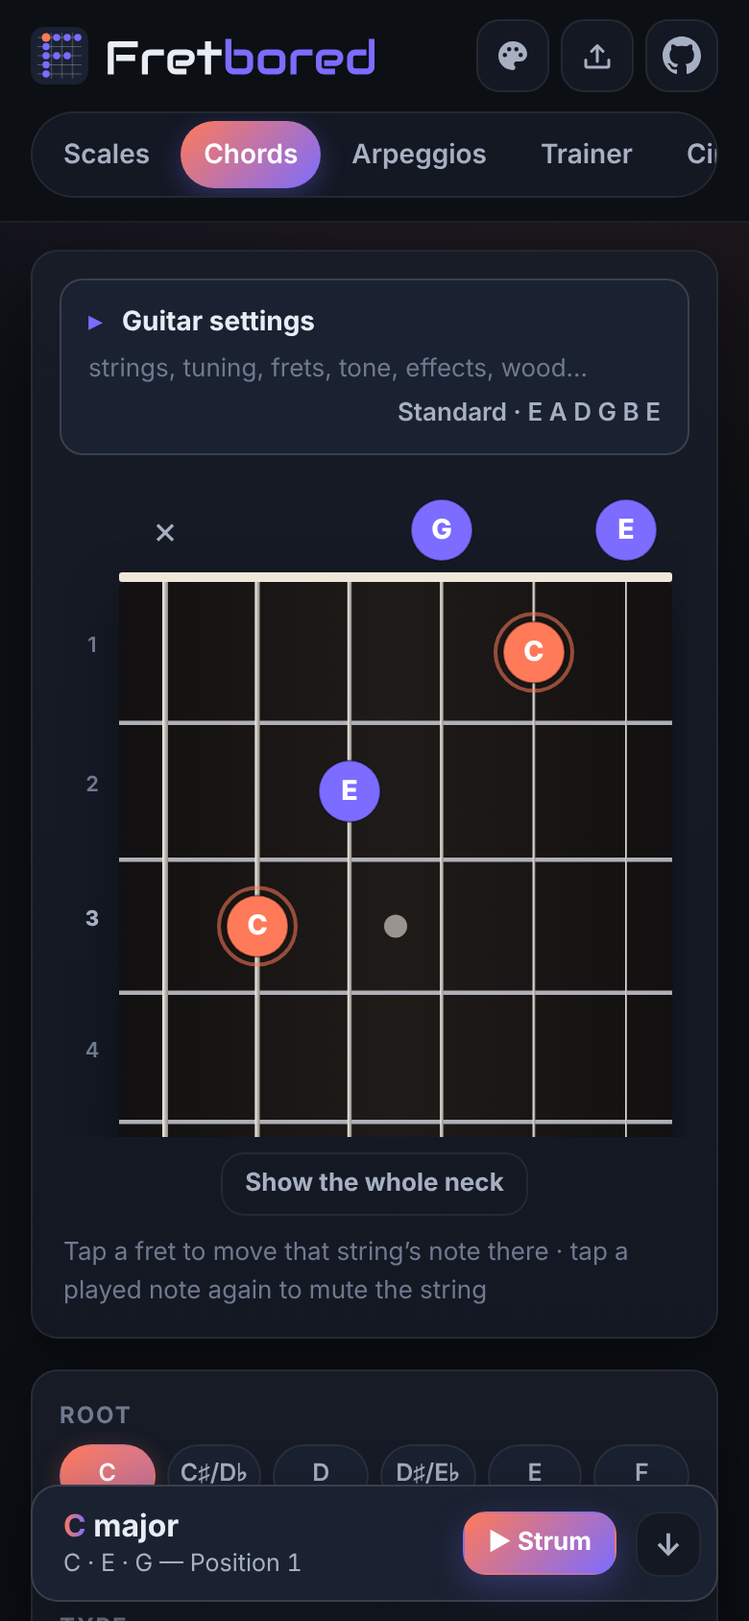
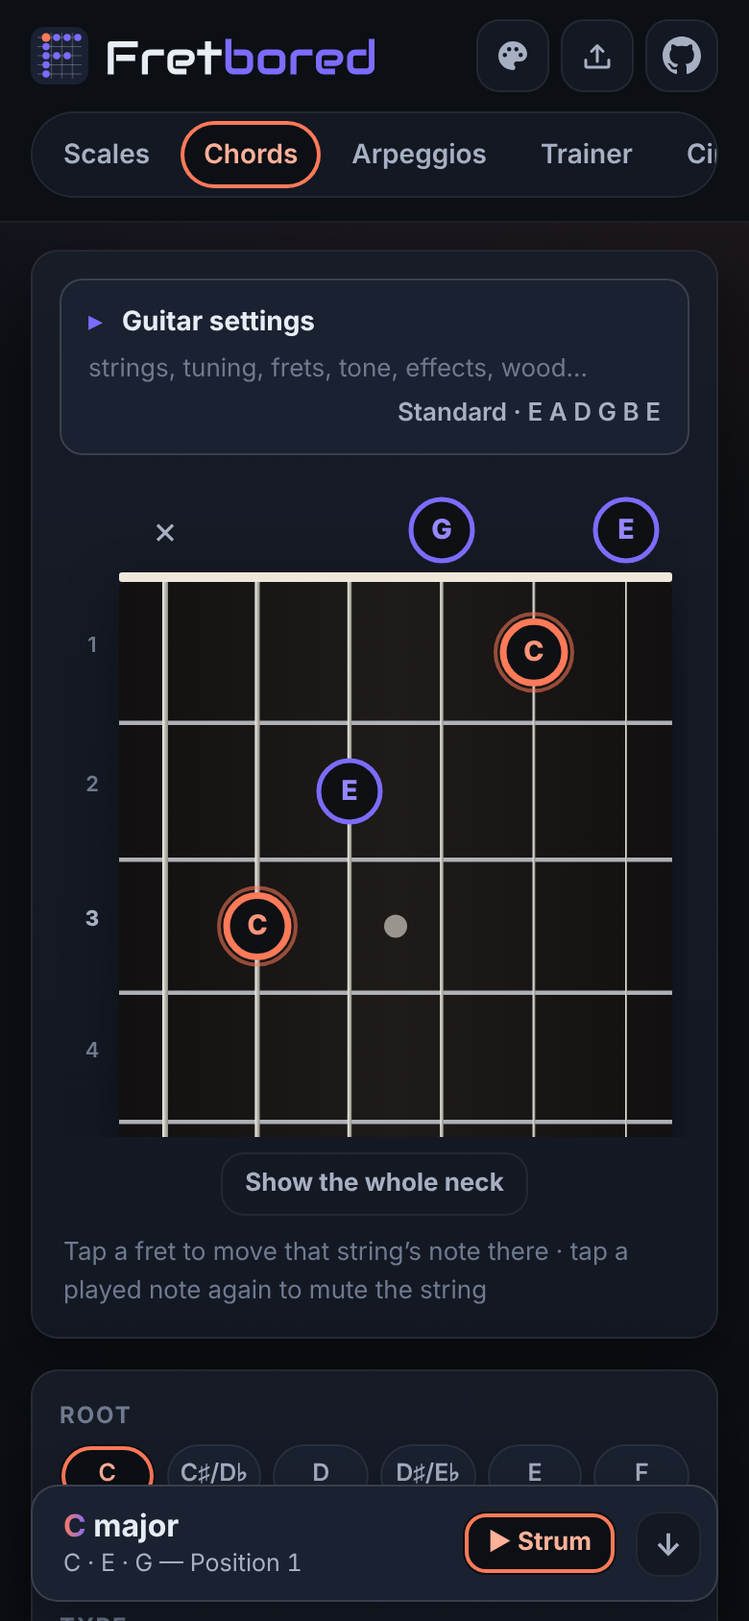
Keep Classic, Ring, Neon and Target styles; make Ring the default
The owner picked these four from the eight trial styles and wants the dark ring
dots as the standard look. Glass, Flat, Pixel, Sticker and Pearl are removed,
along with the code only they needed (square dots, the pearl sheen). A saved
removed style falls back to Ring, and a one-time styleVersion migration moves
everyone to Ring — otherwise anyone who opened the app since styles shipped
would stay on their saved 'classic'. README screenshots regenerated for the
new default.

Claude-Session: https://claude.ai/code/session_01PCZFbkUMncd3SmXqEBR9j8

diff --git a/css/style.css b/css/style.css
@@ -717,19 +717,17 @@ input:disabled { opacity: 0.45; cursor: not-allowed; }
 }
 .fretboard .note .halo { display: none; fill: none; stroke: var(--dot); stroke-width: 2; opacity: 0.55; }
 .fretboard .note.root .halo { display: inline; }
-.fretboard .note .sheen { pointer-events: none; }
 .fretboard .note.faint .dot { opacity: 0.28; stroke: none; }
 .fretboard .note.faint text { fill: #fff; opacity: 0.6; }
 .fretboard.wood-maple .note.faint .dot { opacity: 0.4; }
 .fretboard.wood-maple .note.faint text { fill: #1a1410; }
 .fretboard .note.enter { animation: dotIn 0.22s ease-out; transform-box: fill-box; }
-.fretboard .note.enter :is(.dot, .sheen) { animation: dotScale 0.22s ease-out; transform-origin: center; transform-box: fill-box; }
+.fretboard .note.enter .dot { animation: dotScale 0.22s ease-out; transform-origin: center; transform-box: fill-box; }
 @keyframes dotIn { from { opacity: 0; } to { opacity: 1; } }
 @keyframes dotScale { from { transform: scale(0.4); } to { transform: scale(1); } }
 .fretboard .note.playing-a .dot, .fretboard .note.playing-b .dot { transform-box: fill-box; transform-origin: center; stroke: #fff; stroke-width: 3; }
-.fretboard .note.playing-a :is(.dot, .sheen) { animation: ping 0.32s ease-out; }
-.fretboard .note.playing-b :is(.dot, .sheen) { animation: ping2 0.32s ease-out; }
-.fretboard .note:is(.playing-a, .playing-b) .sheen { transform-box: fill-box; transform-origin: center; }
+.fretboard .note.playing-a .dot { animation: ping 0.32s ease-out; }
+.fretboard .note.playing-b .dot { animation: ping2 0.32s ease-out; }
 @keyframes ping2 { 0% { transform: scale(1); } 40% { transform: scale(1.35); } 100% { transform: scale(1); } }
 @keyframes ping { 0% { transform: scale(1); } 40% { transform: scale(1.35); } 100% { transform: scale(1); } }
 
@@ -1132,8 +1130,7 @@ dialog::backdrop { background: rgba(5, 8, 14, 0.6); backdrop-filter: blur(3px); 
 /* ================================================================ App styles
  * The look of note dots, buttons and tabs, chosen in the palette menu next to the colour theme
  * (FS.STYLES in app.js). Classic (the original look) is the rules above; each style below only
- * overrides them and takes every colour from the theme. Pixel's square dots and Target's dot
- * sizes are drawn by fretboard.js. */
+ * overrides them and takes every colour from the theme. Target's dot sizes are set in fretboard.js. */
 
 :root { --ring-fill: #0e1014; } /* dark dot fill for the ring styles, on every theme and wood */
 
@@ -1184,73 +1181,6 @@ dialog::backdrop { background: rgba(5, 8, 14, 0.6); backdrop-filter: blur(3px); 
 :root[data-style='halo'] .switch input:checked + .slider { background: var(--accent); box-shadow: inset 0 0 0 2px var(--bg); }
 :root[data-style='halo'] .beat-dot.on span { box-shadow: 0 0 0 2px var(--bg), 0 0 0 4px var(--accent); }
 :root[data-style='halo'] .beat-dot.on:is([data-level='2'], [data-level='1']) span { box-shadow: 0 0 0 2px var(--bg), 0 0 0 4px var(--accent-2); }
-
-/* ---- Glass: see-through tinted dots and buttons */
-:root[data-style='glass'] :is(.fretboard .note .dot, .cb-dot) { fill: color-mix(in srgb, var(--dot) 32%, var(--ring-fill)); fill-opacity: 0.85; stroke: var(--dot); stroke-width: 1.8; }
-:root[data-style='glass'] .fretboard .note text { fill: color-mix(in srgb, var(--dot) 40%, white); }
-:root[data-style='glass'] .fretboard.wood-maple .note text { fill: color-mix(in srgb, var(--dot) 60%, black); }
-:root[data-style='glass'] .fretboard.wood-maple .note .dot { fill: color-mix(in srgb, var(--dot) 30%, white); }
-:root[data-style='glass'] .fretboard .note.faint .dot { opacity: 0.5; stroke-width: 1; }
-:root[data-style='glass'] :is(.tabs button[aria-selected='true'], .pill.active, .btn.primary) {
-  background: color-mix(in srgb, var(--accent) 20%, transparent); color: var(--accent-text); border-color: transparent;
-  box-shadow: inset 0 0 0 1px color-mix(in srgb, var(--accent) 65%, transparent), inset 0 1px 0 rgba(255, 255, 255, 0.12);
-}
-:root[data-style='glass'] .seg button.active { background: color-mix(in srgb, var(--accent-2) 16%, transparent); box-shadow: inset 0 0 0 1px color-mix(in srgb, var(--accent-2) 55%, transparent); }
-:root[data-style='glass'] .switch input:checked + .slider { background: color-mix(in srgb, var(--accent) 30%, transparent); box-shadow: inset 0 0 0 1px var(--accent); }
-:root[data-style='glass'] .beat-dot.on span { background: color-mix(in srgb, var(--accent) 35%, transparent); color: var(--text); border-color: var(--accent); box-shadow: none; }
-:root[data-style='glass'] .beat-dot.on:is([data-level='2'], [data-level='1']) span { background: color-mix(in srgb, var(--accent-2) 30%, transparent); border-color: var(--accent-2); }
-
-/* ---- Flat: solid colours, no gradients, glows or shadows, tighter corners, underlined tabs */
-:root[data-style='flat'] { --radius: 8px; --radius-sm: 6px; --shadow: none; }
-:root[data-style='flat'] .fretboard .note .dot { stroke: none; }
-:root[data-style='flat'] .fretboard .note.root .halo { display: none; }
-:root[data-style='flat'] .fretboard .board { filter: none; }
-:root[data-style='flat'] .card { background: var(--surface); }
-:root[data-style='flat'] :is(.pill.active, .btn.primary, .switch input:checked + .slider, .progress-bar, .tr-goal-bar, .sweep-ball) { background: var(--accent); box-shadow: none; }
-:root[data-style='flat'] :is(.btn, .pill, .seg, .icon-btn, select, input[type='text'], input[type='number']) { border-radius: 6px; }
-:root[data-style='flat'] .seg button { border-radius: 4px; }
-:root[data-style='flat'] .tabs { background: transparent; border: 0; border-radius: 0; padding: 0; gap: 0; }
-:root[data-style='flat'] .tabs button { border-radius: 0; box-shadow: inset 0 -2px 0 var(--border); }
-:root[data-style='flat'] .tabs button[aria-selected='true'] { background: transparent; color: var(--accent-text); box-shadow: inset 0 -3px 0 var(--accent); }
-:root[data-style='flat'] .beat-dot.on span { box-shadow: none; }
-
-/* ---- Pixel: square notes, hard edges and hard offset shadows */
-:root[data-style='pixel'] { --radius: 4px; --radius-sm: 3px; }
-:root[data-style='pixel'] :is(.fretboard .note .dot, .cb-dot) { stroke: var(--ring-fill); stroke-width: 2; }
-:root[data-style='pixel'] .fretboard .note text { font-family: ui-monospace, SFMono-Regular, Menlo, Consolas, monospace; }
-:root[data-style='pixel'] .fretboard .note.root .halo { opacity: 0.85; }
-:root[data-style='pixel'] :is(.btn, .pill, .seg, .seg button, .tabs, .tabs button, .icon-btn, .chip, .chord-cell, .tr-answer, select, input[type='text'], input[type='number'], .beat-dot span, .switch .slider, .switch .slider::after) { border-radius: 2px; }
-:root[data-style='pixel'] :is(.tabs button[aria-selected='true'], .pill.active, .btn.primary) {
-  background: var(--accent); color: var(--on-accent); border-color: transparent;
-  box-shadow: 3px 3px 0 color-mix(in srgb, var(--accent) 40%, black);
-}
-:root[data-style='pixel'] .switch input:checked + .slider { background: var(--accent); }
-:root[data-style='pixel'] .beat-dot.on span { box-shadow: 3px 3px 0 color-mix(in srgb, var(--accent) 40%, black); }
-:root[data-style='pixel'] .beat-dot.on:is([data-level='2'], [data-level='1']) span { box-shadow: 3px 3px 0 color-mix(in srgb, var(--accent-2) 40%, black); }
-
-/* ---- Sticker: die-cut white outlines with a drop shadow */
-:root[data-style='sticker'] :is(.fretboard .note .dot, .cb-dot) { stroke: #fff; stroke-width: 2.5; filter: drop-shadow(1.5px 2px 0 rgba(0, 0, 0, 0.55)); }
-:root[data-style='sticker'] :is(.fretboard .note.root .dot, .cb-dot.root) { stroke-width: 3.5; }
-:root[data-style='sticker'] .fretboard .note.root .halo { display: none; }
-:root[data-style='sticker'] .fretboard .note.faint .dot { filter: none; stroke-width: 1.5; }
-:root[data-style='sticker'] :is(.tabs button[aria-selected='true'], .pill.active, .btn.primary) {
-  background: var(--accent); color: var(--on-accent); border-color: transparent;
-  box-shadow: inset 0 0 0 2px var(--text), 2px 3px 0 rgba(0, 0, 0, 0.5);
-}
-:root[data-style='sticker'] .switch input:checked + .slider { background: var(--accent); box-shadow: inset 0 0 0 2px var(--text); }
-:root[data-style='sticker'] .beat-dot.on span { border-color: var(--text); box-shadow: 2px 3px 0 rgba(0, 0, 0, 0.5); }
-
-/* ---- Pearl: glossy dots like shell inlays; glossy buttons */
-:root[data-style='pearl'] :is(.fretboard .note .dot, .cb-dot) { stroke: color-mix(in srgb, var(--dot) 55%, black); stroke-width: 1; }
-:root[data-style='pearl'] .fretboard .note.root .halo { opacity: 0.7; }
-:root[data-style='pearl'] :is(.tabs button[aria-selected='true'], .pill.active, .btn.primary, .switch input:checked + .slider) {
-  background: linear-gradient(180deg, color-mix(in srgb, var(--accent) 62%, white), var(--accent) 55%, color-mix(in srgb, var(--accent) 80%, black));
-  color: var(--on-accent); border-color: transparent;
-  box-shadow: inset 0 1px 0 rgba(255, 255, 255, 0.55), inset 0 -1px 0 rgba(0, 0, 0, 0.2), 0 2px 6px rgba(0, 0, 0, 0.3);
-}
-:root[data-style='pearl'] .seg button.active { background: linear-gradient(180deg, color-mix(in srgb, var(--surface-3) 70%, white 12%), var(--surface-3)); box-shadow: inset 0 1px 0 rgba(255, 255, 255, 0.18), 0 1px 3px rgba(0, 0, 0, 0.3); }
-:root[data-style='pearl'] .beat-dot.on span { background: radial-gradient(circle at 35% 30%, color-mix(in srgb, var(--accent) 45%, white), var(--accent) 60%); }
-:root[data-style='pearl'] .beat-dot.on:is([data-level='2'], [data-level='1']) span { background: radial-gradient(circle at 35% 30%, color-mix(in srgb, var(--accent-2) 45%, white), var(--accent-2) 60%); }
 
 /* Phones: no glows on the metronome lights (repaints can starve audio — see CLAUDE.md). */
 @media (max-width: 760px) {

diff --git a/tests/smoke.browser.js b/tests/smoke.browser.js
@@ -99,8 +99,9 @@ const check = (label, actual, expected) => {
       check(`${P} theme menu closes`, String(await page.$eval('#theme-menu', (m) => m.hidden)), 'true');
       if (th !== 'dark') await shot(`theme-${th}`);
     }
-    // Note dots take their colours from the app theme (no separate dot-colour picker).
-    const rootFill = () => page.$eval('#panel-scales .fretboard .note.root .dot', (c) => getComputedStyle(c).fill);
+    // Note dots take their colours from the app theme (no separate dot-colour picker); in the default
+    // Ring style that colour is the ring (stroke).
+    const rootFill = () => page.$eval('#panel-scales .fretboard .note.root .dot', (c) => getComputedStyle(c).stroke);
     check(`${P} dark theme root dot colour`, await rootFill(), 'rgb(255, 122, 89)');
     check(`${P} no dot-colour picker`, String(await page.$$eval('.fb-settings .swatch', (s) => s.length)), '0');
     await page.click('#theme-btn');
@@ -114,33 +115,34 @@ const check = (label, actual, expected) => {
     await page.click('#theme-menu [data-id="dark"]');
     await page.waitForTimeout(100);
 
-    // App styles (palette menu, beside the colour themes): Classic is the default; each one applies
-    // and is remembered; Ring draws dark dots with a ring in the theme's colour; Pixel draws squares.
-    check(`${P} default style`, await page.$eval('html', (e) => e.dataset.style), 'classic');
-    for (const st of ['ring', 'neon', 'halo', 'glass', 'flat', 'pixel', 'sticker', 'pearl']) {
+    // App styles (palette menu, beside the colour themes): Ring is the default; each one applies
+    // and is remembered; Ring draws dark dots with a ring in the theme's colour.
+    check(`${P} default style`, await page.$eval('html', (e) => e.dataset.style), 'ring');
+    check(`${P} style menu items`, (await page.$$eval('#theme-menu [data-style]', (b) => b.map((x) => x.dataset.style))).join(' '), 'classic ring neon halo');
+    for (const st of ['classic', 'neon', 'halo']) {
       await page.click('#theme-btn');
       await page.click(`#theme-menu [data-style="${st}"]`);
       await page.waitForTimeout(100);
       check(`${P} style ${st} applied`, await page.$eval('html', (e) => e.dataset.style), st);
       check(`${P} style ${st} checked in menu`, await page.$eval(`#theme-menu [data-style="${st}"]`, (b) => b.getAttribute('aria-checked')), 'true');
       await shot(`style-${st}`);
-      if (st === 'pixel') check(`${P} pixel style draws square dots`, await page.$eval('#panel-scales .fretboard .note.root .dot', (d) => d.tagName), 'rect');
-      if (st === 'pearl') check(`${P} pearl style adds a sheen`, String(await page.$$eval('#panel-scales .fretboard .sheen', (s) => s.length > 0)), 'true');
+      if (st === 'halo') check(`${P} target style rings every note`, String(await page.$$eval('#panel-scales .fretboard .note:not(.faint) .halo', (h) => h.every((x) => getComputedStyle(x).display !== 'none'))), 'true');
     }
     await page.click('#theme-btn');
     await page.click('#theme-menu [data-style="ring"]');
     await page.waitForTimeout(300);
     check(`${P} ring style: root ring in theme colour`, await page.$eval('#panel-scales .fretboard .note.root .dot', (c) => getComputedStyle(c).stroke), 'rgb(255, 122, 89)');
     check(`${P} ring style: dark fill`, await page.$eval('#panel-scales .fretboard .note.root .dot', (c) => getComputedStyle(c).fill), 'rgb(14, 16, 20)');
-    check(`${P} sheen gone after leaving pearl`, String(await page.$$eval('#panel-scales .fretboard .sheen', (s) => s.length)), '0');
     check(`${P} ring style: theme still dark`, await page.$eval('html', (e) => e.dataset.theme), 'dark');
     await page.reload();
     await page.waitForTimeout(300);
     check(`${P} style remembered`, await page.$eval('html', (e) => e.dataset.style), 'ring');
-    check(`${P} classic dots are circles`, await page.$eval('#panel-scales .fretboard .note.root .dot', (d) => d.tagName), 'circle');
-    await page.click('#theme-btn');
-    await page.click('#theme-menu [data-style="classic"]');
-    await page.waitForTimeout(100);
+    // A removed style (e.g. Pixel) saved in storage falls back to Ring.
+    await page.evaluate(() => { FS.settings.style = 'pixel'; FS.save(); });
+    await page.waitForTimeout(300);
+    await page.reload();
+    await page.waitForTimeout(300);
+    check(`${P} removed style falls back to ring`, await page.$eval('html', (e) => e.dataset.style), 'ring');
 
     // Guitar settings: folded by default; opening it on one tab opens it on the others and is remembered.
     const fbOpen = (tab) => page.$eval(`#panel-${tab} .fb-settings`, (d) => d.open);

diff --git a/js/app.js b/js/app.js
@@ -22,17 +22,13 @@
   FS.THEMES = THEMES;
 
   // App styles: the look of note dots, buttons and tabs, independent of the colour theme (the rules
-  // live in style.css as :root[data-style=…]; Classic is the original look and has none).
+  // live in style.css as :root[data-style=…]; Classic is the original look and has none). Ring is
+  // the default; a saved style that was removed (Glass, Flat, Pixel, Sticker, Pearl) falls back to it.
   const STYLES = [
     { id: 'classic', name: 'Classic' },
     { id: 'ring', name: 'Ring' },
     { id: 'neon', name: 'Neon' },
     { id: 'halo', name: 'Target' },
-    { id: 'glass', name: 'Glass' },
-    { id: 'flat', name: 'Flat' },
-    { id: 'pixel', name: 'Pixel' },
-    { id: 'sticker', name: 'Sticker' },
-    { id: 'pearl', name: 'Pearl' },
   ];
   FS.STYLES = STYLES;
 
@@ -44,11 +40,6 @@
         case 'ring': return `<circle cx="${cx}" cy="10" r="7" style="fill:${ring};stroke:${c};stroke-width:2.2"/>`;
         case 'neon': return `<circle cx="${cx}" cy="10" r="7" style="fill:${ring};stroke:${c};stroke-width:1.8;filter:drop-shadow(0 0 2.5px ${c})"/>`;
         case 'halo': return `<circle cx="${cx}" cy="10" r="8.5" style="fill:none;stroke:${c};stroke-width:1.4"/><circle cx="${cx}" cy="10" r="5.5" style="fill:${c}"/>`;
-        case 'glass': return `<circle cx="${cx}" cy="10" r="7" style="fill:color-mix(in srgb, ${c} 32%, #0e1014);stroke:${c};stroke-width:1.6"/>`;
-        case 'flat': return `<circle cx="${cx}" cy="10" r="7.5" style="fill:${c}"/>`;
-        case 'pixel': return `<rect x="${cx - 7}" y="3" width="14" height="14" rx="1.5" style="fill:${c};stroke:#0e1014;stroke-width:1.5"/>`;
-        case 'sticker': return `<circle cx="${cx}" cy="10" r="7" style="fill:${c};stroke:#fff;stroke-width:2;filter:drop-shadow(1px 1.5px 0 rgba(0,0,0,.55))"/>`;
-        case 'pearl': return `<circle cx="${cx}" cy="10" r="7.5" style="fill:${c}"/><circle cx="${cx}" cy="10" r="7.5" fill="url(#pv-sheen)"/>`;
         default: return `<circle cx="${cx}" cy="10" r="7" style="fill:${c};stroke:rgba(0,0,0,.35)"/>`;
       }
     };
@@ -60,7 +51,7 @@
   }
 
   function applyStyle() {
-    const style = STYLES.find((x) => x.id === FS.settings.style) || STYLES[0];
+    const style = STYLES.find((x) => x.id === FS.settings.style) || STYLES.find((x) => x.id === 'ring');
     FS.settings.style = style.id;
     document.documentElement.dataset.style = style.id;
     document.querySelectorAll('#theme-menu [data-style]').forEach((b) => b.setAttribute('aria-checked', String(b.dataset.style === style.id)));
@@ -82,8 +73,6 @@
     const colours = FS.h('div', { class: 'menu-group', role: 'group', 'aria-label': 'Colours' }, FS.h('div', { class: 'menu-head', 'aria-hidden': 'true' }, 'Colours'));
     const styles = FS.h('div', { class: 'menu-group', role: 'group', 'aria-label': 'Style' }, FS.h('div', { class: 'menu-head', 'aria-hidden': 'true' }, 'Style'));
     menu.append(colours, styles);
-    // Shared sheen for the Pearl preview (one copy: SVG ids are page-wide).
-    menu.insertAdjacentHTML('beforeend', '<svg width="0" height="0" style="position:absolute" aria-hidden="true"><defs><radialGradient id="pv-sheen" cx="0.32" cy="0.25" r="0.6"><stop offset="0" stop-color="#fff" stop-opacity="0.55"/><stop offset="0.5" stop-color="#fff" stop-opacity="0.08"/><stop offset="1" stop-color="#fff" stop-opacity="0"/></radialGradient></defs></svg>');
     for (const style of STYLES) {
       styles.append(FS.h('button', {
         role: 'menuitemradio', class: 'theme-item', dataset: { style: style.id },

diff --git a/js/fretboard.js b/js/fretboard.js
@@ -13,17 +13,6 @@
   // label) are set per theme in style.css. Their look (ring, glow, square…) comes from the app
   // style (FS.STYLES in app.js, :root[data-style] rules in style.css).
 
-  // A note dot centred on (cx, cy): a circle, or a rounded square in the Pixel style.
-  FS.dotShape = function (cls, rad, cx, cy, attrs) {
-    const a = attrs ? ` ${attrs}` : '';
-    if (FS.settings.style === 'pixel') {
-      const x = (cx || 0) - rad;
-      const y = (cy || 0) - rad;
-      return `<rect class="${cls}" x="${x}" y="${y}" width="${2 * rad}" height="${2 * rad}" rx="${(rad * 0.22).toFixed(1)}"${a}/>`;
-    }
-    return `<circle class="${cls}"${cx ? ` cx="${cx}" cy="${cy}"` : ''} r="${rad}"${a}/>`;
-  };
-
   const INLAYS = [3, 5, 7, 9, 15, 17, 19, 21];
   const DOUBLE_INLAYS = [12, 24];
   const NS = 'http://www.w3.org/2000/svg';
@@ -161,9 +150,6 @@
         <linearGradient id="${this.uid}string" ${g2}>
           <stop offset="0" stop-color="#f4f1ea"/><stop offset="1" stop-color="#8d8a84"/>
         </linearGradient>
-        <radialGradient id="${this.uid}sheen" cx="0.32" cy="0.25" r="0.6">
-          <stop offset="0" stop-color="#fff" stop-opacity="0.55"/><stop offset="0.5" stop-color="#fff" stop-opacity="0.08"/><stop offset="1" stop-color="#fff" stop-opacity="0"/>
-        </radialGradient>
       </defs>`);
 
       // Board
@@ -238,7 +224,6 @@
       }
 
       // Notes
-      const pearl = FS.settings.style === 'pearl';
       const target = FS.settings.style === 'halo';
       const keys = new Set();
       for (const note of this.model.notes) {
@@ -256,10 +241,9 @@
         parts.push(`<g class="${cls}" data-midi="${midi}" transform="translate(${c.x} ${c.y})" style="--dot:${fill};--dot-text:${ink}">`);
         // The outer ring marks the root; the Target style shows it on every note, tight around a
         // smaller dot so neighbouring strings' rings don't overlap.
-        if (note.kind !== 'faint') parts.push(FS.dotShape('halo', target ? r + 1 : r + 4));
+        if (note.kind !== 'faint') parts.push(`<circle class="halo" r="${target ? r + 1 : r + 4}"/>`);
         const dr = note.kind === 'faint' ? r * 0.82 : target ? r * 0.78 : r;
-        parts.push(FS.dotShape('dot', dr));
-        if (pearl && note.kind !== 'faint') parts.push(FS.dotShape('sheen', dr, 0, 0, `fill="url(#${this.uid}sheen)"`));
+        parts.push(`<circle class="dot" r="${dr}"/>`);
         if (label) parts.push(`<text style="font-size:${fs.toFixed(1)}px">${label}</text>`);
         parts.push('</g>');
       }

diff --git a/js/store.js b/js/store.js
@@ -7,7 +7,8 @@
   const DEFAULTS = {
     tab: 'scales',
     theme: 'dark',
-    style: 'classic', // look of note dots, buttons and tabs (FS.STYLES in app.js)
+    style: 'ring', // look of note dots, buttons and tabs (FS.STYLES in app.js)
+    styleVersion: 0, // bumped to migrate the saved style once
     fretboard: {
       strings: 6,
       tuning: 'std6',
@@ -83,6 +84,11 @@
     saved = null;
   }
   FS.settings = merge(DEFAULTS, saved);
+  // Style v1: Ring became the default; switch everyone over once (Classic stays one tap away).
+  if (FS.settings.styleVersion < 1) {
+    FS.settings.style = 'ring';
+    FS.settings.styleVersion = 1;
+  }
   // Trainer v1: the default practice area is Open–12; reset ranges saved before that existed.
   if (FS.settings.trainer.version < 1) {
     FS.settings.trainer.from = 0;

diff --git a/js/chords.js b/js/chords.js
@@ -326,7 +326,7 @@
           const pc = t.mod12(tuning[s] + f);
           const root = !unknown && pc === st.root;
           const fill = root ? 'var(--dot-root)' : 'var(--dot-note)';
-          p.push(FS.dotShape(`cb-dot${root ? ' root' : ''}`, sw * 0.38, x, topY + row * fh + fh / 2, `style="--dot:${fill}"`));
+          p.push(`<circle class="cb-dot${root ? ' root' : ''}" cx="${x}" cy="${topY + row * fh + fh / 2}" r="${sw * 0.38}" style="--dot:${fill}"/>`);
         }
       });
       p.push('</svg>');

diff --git a/index.html b/index.html
@@ -1,5 +1,5 @@
 <!doctype html>
-<html lang="en" data-theme="dark" data-style="classic">
+<html lang="en" data-theme="dark" data-style="ring">
 <head>
   <meta charset="utf-8">
   <meta name="viewport" content="width=device-width, initial-scale=1, viewport-fit=cover">

diff --git a/CLAUDE.md b/CLAUDE.md
@@ -46,7 +46,7 @@ Script order in `index.html` matters:
 | `js/tunings.js` | `FS.TUNINGS` presets (MIDI notes, lowest string first; `flats` flag for label spelling), string/fret options |
 | `js/store.js` | `FS.settings` (persisted in localStorage key `fretbored:v1` — the only thing the app stores; `FS.exportData()` / `FS.importData(obj)` back it up to / restore it from a JSON file via the header backup menu), `FS.save()`, event bus `FS.on/emit`, tuning helpers, `FS.toast`, DOM helper `FS.h(tag, attrs, ...children)` |
 | `js/audio.js` | Shared AudioContext (`FS.audio.ctx()`), Karplus–Strong pluck synth (`playNote(midi, when, dur, gain, {clean}?)`, `prepare`) through one shared guitar chain (`buildChain(ctx, {tone, reverb, delay}, dest)`, rebuilt when `fretboard.tone/reverb/delay` change, old chain freed after 6 s): `buildTone` = highpass → pre-gain → WaveShaper → peaking EQ → cabinet low-pass → level (`FS.TONES`: Clean, Overdriven — Distortion was removed by the owner as too messy; a saved one is reset to Clean in `store.js`), then delay (`FS.DELAYS`, feedback loop with a low-pass) and reverb (`FS.REVERBS`, ConvolverNode with a generated noise impulse) on parallel sends — nothing built while they're off. Palm mute (`fretboard.palmMute`) = a separate damped Karplus–Strong buffer (`makePluck(midi, muted)`, cached per note+mute, ×1.8 gain). `{clean:true}` (tuner) skips all of it. The smoke test renders offline to check tone levels, palm-mute decay, echo timing and reverb tails; metronome clicks (`loadSamples`, `playSample`, `playBuffer`) — see Audio below |
-| `js/fretboard.js` | `FS.Fretboard` SVG component (shared by Scales/Chords/Arpeggios/Trainer), woods (`FS.WOODS`), horizontal/vertical layout, tap / long-press / right-click handling. Dot colours come from the app theme, their look from the app style (see below; `FS.dotShape`). Model: `{ notes: [{s, f, kind: 'root'|'note'|'faint', label, iv?, color?}], muted, isActive?(s, f), focus?: {lo, hi} }` — `color` overrides the theme (dark label), `isActive` shades other cells, `focus` (Chords/Arpeggios) crops a vertical board to those frets via the SVG viewBox (`cropRange`) unless `fretboard.wholeNeck`; the toggle button is added after the host |
+| `js/fretboard.js` | `FS.Fretboard` SVG component (shared by Scales/Chords/Arpeggios/Trainer), woods (`FS.WOODS`), horizontal/vertical layout, tap / long-press / right-click handling. Dot colours come from the app theme, their look from the app style (see below). Model: `{ notes: [{s, f, kind: 'root'|'note'|'faint', label, iv?, color?}], muted, isActive?(s, f), focus?: {lo, hi} }` — `color` overrides the theme (dark label), `isActive` shades other cells, `focus` (Chords/Arpeggios) crops a vertical board to those frets via the SVG viewBox (`cropRange`) unless `fretboard.wholeNeck`; the toggle button is added after the host |
 | `js/fbcontrols.js` | Shared "Guitar settings" bar (was "Fretboard settings") (inside a collapsible `details.fb-settings`, open state in `fretboard.controlsOpen`, synced across tabs via the `fbcontrols:open` event) + custom tuning editor dialog |
 | `js/nowbar.js` | Pinned "now viewing" bar shown while a tab's title is out of view — at the top when scrolled past it, at the bottom while it is still below the screen |
 | `js/scales.js`, `chords.js`, `arpeggios.js`, `circle.js`, `trainer.js`, `metronome.js`, `tuner.js` | One `FS.init<Tab>(panel)` per tab. Adding a tab: button + panel in `index.html`, script tag, `TABS` and the init map in `app.js`, defaults in `store.js`, a section in `tests/smoke.browser.js` |
@@ -94,18 +94,19 @@ Dark keeps the circle-of-fifths colours (coral root, violet notes, white labels)
 has its own pair from its palette — keep pairs distinct between themes and root vs notes clearly
 different. A note's `color` (trainer feedback) still overrides the theme.
 
-App styles (owner asked for them; Classic = the original look, kept as the default): `STYLES` in `app.js`
-(`settings.style`, `<html data-style>`), picked in the "Style" column of the palette menu (the menu has a
+App styles (owner asked for them): Classic (the original look), Ring (**default** — owner's pick), Neon and
+Target (id `halo`). Glass, Flat, Pixel, Sticker and Pearl were tried and removed by the owner; a saved
+removed style falls back to Ring (`applyStyle`), and `styleVersion` moved everyone to Ring once (`store.js`).
+`STYLES` in `app.js` (`settings.style`, `<html data-style>`), picked in the "Style" column of the palette menu (the menu has a
 "Colours" column and a "Style" column — stacked and scrollable on phones; each style item has a drawn
 preview, `stylePreview`). Style is independent of the colour theme: a style only changes shapes,
 fills, rings, glows and shadows, and takes every colour from the theme. Classic has no rules; each other
 style is a `:root[data-style='id']` block at the end of `style.css` covering note dots (fretboard + chord
 diagram `.cb-dot`, which carries `--dot`), active tabs, pills, primary buttons, segmented buttons,
 switches and metronome beat lights. Ring/Neon/Target use `--ring-fill` (a fixed near-black) for dots.
-Shape-level differences live in `fretboard.js`: `FS.dotShape()` draws a rounded square for Pixel
-(also used by `chords.js`); every non-faint note gets a `.halo` ring (shown only on the root, or on all
-notes in Target, which also shrinks the dot to 0.78 r so rings on neighbouring strings don't touch);
-Pearl adds a `.sheen` overlay (per-instance radial gradient). A style change emits `fretboard` to redraw.
+In `fretboard.js` every non-faint note gets a `.halo` ring (shown only on the root, or on all notes in
+Target, which also shrinks the dot to 0.78 r so rings on neighbouring strings don't touch). A style
+change emits `fretboard` to redraw. Theme-colour tests read the dot's `stroke` (Ring's fill is dark).
 Adding a style: `STYLES` + `stylePreview` case + CSS block + the smoke test's style list.
 
 ### Music-theory conventions

diff --git a/Requirements.md b/Requirements.md
@@ -28,7 +28,7 @@
   - Layout (phones): Sideways or Vertical — vertical shows the nut at the top and the low string on the left, like a chord chart
   - On Chords and Arpeggios the vertical fretboard shows only the frets around the current shape (from the nut when the shape is near it, at least five frets, one spare fret below for editing); a "Show the whole neck" button below it brings back the full neck (remembered)
   - Fretboard wood: Ebony (default), Rosewood or Maple
-  - App style (palette button, "Style" column beside the colour themes; remembered): changes the look of note dots, buttons and tabs while keeping the theme's colours. Classic (default, the original look: filled dots, gradient buttons, pill tabs); Ring (dark/black dots with a coloured ring and label — the owner's request; outlined active buttons and tabs); Neon (ring dots that glow; glowing outlined buttons); Target (solid dot inside a ring of its colour; buttons with a double ring); Glass (dark tinted, see-through-looking dots and buttons); Flat (solid colours, no gradients or shadows, tighter corners, underlined tabs); Pixel (square note markers, hard corners and hard offset shadows); Sticker (white die-cut outlines with a drop shadow); Pearl (glossy dots like shell inlays, glossy buttons)
+  - App style (palette button, "Style" column beside the colour themes; remembered): changes the look of note dots, buttons and tabs while keeping the theme's colours. Ring (default — the owner's pick: dark/black dots with a coloured ring and label; outlined active buttons and tabs); Classic (the original look: filled dots, gradient buttons, pill tabs); Neon (ring dots that glow; glowing outlined buttons); Target (solid dot inside a ring of its colour; buttons with a double ring). Glass, Flat, Pixel, Sticker and Pearl were tried and removed at the owner's request; a saved removed style falls back to Ring
   - Note dot colours follow the app colour theme (the separate dot-colour picker was removed at the owner's request). Root / other notes: Dark coral / violet (the circle-of-fifths colours), Light rose / blue, AMOLED cyan / electric blue, Dracula pink / cyan, Solarized orange / blue, Tokyo Night orange / blue, Catppuccin Latte mauve / teal, Frappé green / mauve, Macchiato red / yellow, Mocha mauve / teal
 ##### Guitar Scales Tab
 - User may select any key desired, and they display in the fretboard with root note highlighted

diff --git a/README.md b/README.md
@@ -13,7 +13,7 @@ Guitar scales, chords, circle of fifths and a precise metronome — in the brows
 - **Metronome**: tap tempo, accents, odd-meter grouping, subdivisions, step and gradual tempo trainer, gap trainer, and a visual-sync adjustment for devices with audio delay. Sample-accurate Web Audio scheduling.
 - Shared fretboard settings: 4–8 strings (guitar and bass), preset and custom tunings, 21/22/24 frets, note or interval labels (note dot colours follow the app theme), clean or overdriven guitar tone with palm mute, reverb and delay, ebony/rosewood/maple, left-handed mode, and a sideways or vertical layout on phones (the vertical board on Chords and Arpeggios shows just the current shape, with a button for the whole neck).
 - App colour themes: Dark (default), Light, AMOLED Black, Dracula, Solarized, Tokyo Night and Catppuccin Latte / Frappé / Macchiato / Mocha — pick one from the palette button at the top.
-- App styles for the note dots, buttons and tabs, combined with any colour theme: Classic (default), Ring (dark dots with a coloured ring), Neon, Target, Glass, Flat, Pixel (square notes), Sticker and Pearl — in the same palette menu.
+- App styles for the note dots, buttons and tabs, combined with any colour theme: Ring (default: dark dots with a coloured ring), Classic (filled dots), Neon and Target — in the same palette menu.
 - Back up everything (settings, custom tunings, Trainer history and streak) to a file and import it on another device — the ⤒ button at the top.
 - On phones, swipe the page left or right to move between tabs — the page follows your finger.
 
